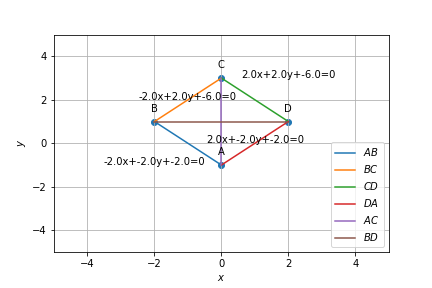
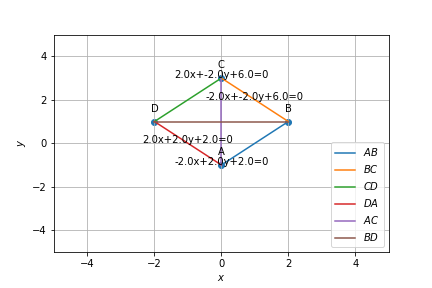
updated code

Changed region(s): [[0.2407, 0.2188, 0.7824, 0.5938]]

diff --git a/ASSIGNMENT2/codes/Assignment2_using affine.py b/ASSIGNMENT2/codes/Assignment2_using affine.py
@@ -1,3 +1,11 @@
+# -*- coding: utf-8 -*-
+"""BOP_ASS2.ipynb
+
+Automatically generated by Colaboratory.
+
+Original file is located at
+    https://colab.research.google.com/drive/1q7LZ4w0ey-1h_L7xWx3h0K0hYpDESUAW
+"""
 
 #Question: The opposite vertices of a sqaure are (0,-1), (0,3). Find the equations of four sides.
 import matplotlib.pyplot as plt
@@ -22,7 +30,7 @@ omat = np.array([[0,1],[-1,0]])
 #TRANSLATION
 #Shifting co-ordinates by [0,1]
 def translation(a, trnslt_mat):
-    a_trans = a+trnslt_mat
+    a_trans = a-trnslt_mat
     return a_trans
 
 #ROTATION
@@ -60,12 +68,13 @@ def coeff_gen(A,B,AB):
 # GIVEN POINTS
 a = np.array([0,-1])
 c = np.array([0,3])
-trnslt_mat = np.array([0,1])
+trnslt_mat = np.array([0,-1])
 a_prime = translation(a,trnslt_mat)
 c_prime = translation(c,trnslt_mat)
 rot_angle = (math.pi)/4
 a_prime_rot = rotation(a_prime, rot_angle)
 c_prime_rot = rotation(c_prime, rot_angle)
+print("After Affine:",c_prime_rot)
 #Direction Vector
 x_AC = c_prime_rot - a_prime_rot
 print(x_AC)
@@ -75,25 +84,27 @@ print(x_BD)
 #The vector which is orthogonal to x_ac is another diagonal and that vector is given by the transpose of vector array. Hence
 #x_bd = np.vstack(x_ac)
 # MIDPOINT OF DIAGONAL
-mp = np.array([(a_prime_rot[0]+c_prime_rot[0])/2,(a_prime_rot[1]+c_prime_rot[1])/2])
-print(mp)
+#mp = np.array([(a_prime_rot[0]+c_prime_rot[0])/2,(a_prime_rot[1]+c_prime_rot[1])/2])
+#print(mp)
 #Other unknown coordinates
-#dist_ac = norm(c-a)
+dist_ac = norm(c-a)
 len_bd = norm(x_BD)
 #print(len_bd)
 #LET MIDPOINT BE vector MP  and denoted by M
 #SINCE vector AC is a diagonal, AC= AM+MC. SIMILARLY BD= BM+MD
-b_prime_rot=np.array([mp[0]+ x_BD[0]/2,mp[1]+x_BD[1]/2])
-d_prime_rot=np.array([mp[0]-x_BD[0]/2, mp[1]-x_BD[1]/2])
+b_prime_rot=np.array([a_prime_rot[0]+(dist_ac/math.sqrt(2)),a_prime_rot[1]])
+d_prime_rot=np.array([a_prime_rot[0], a_prime_rot[1]+(dist_ac/math.sqrt(2))])
 print(b_prime_rot,d_prime_rot)
 #REVERSE AFFINE TRANSFORMATION
 #ANTI CLOCK WISE ROTATION
 rot_angle = -(math.pi/4)
 b_prime = rotation(b_prime_rot, rot_angle)
+print(b_prime)
 d_prime = rotation(d_prime_rot, rot_angle)
 #REVERSE TRANSLATION
-trnslt_mat = np.array([0,-1])
+trnslt_mat = np.array([0,1])
 b=translation(b_prime,trnslt_mat)
+print("B;",b)
 d=translation(d_prime,trnslt_mat)
 # Direction Vectors
 x_AB = b-a
